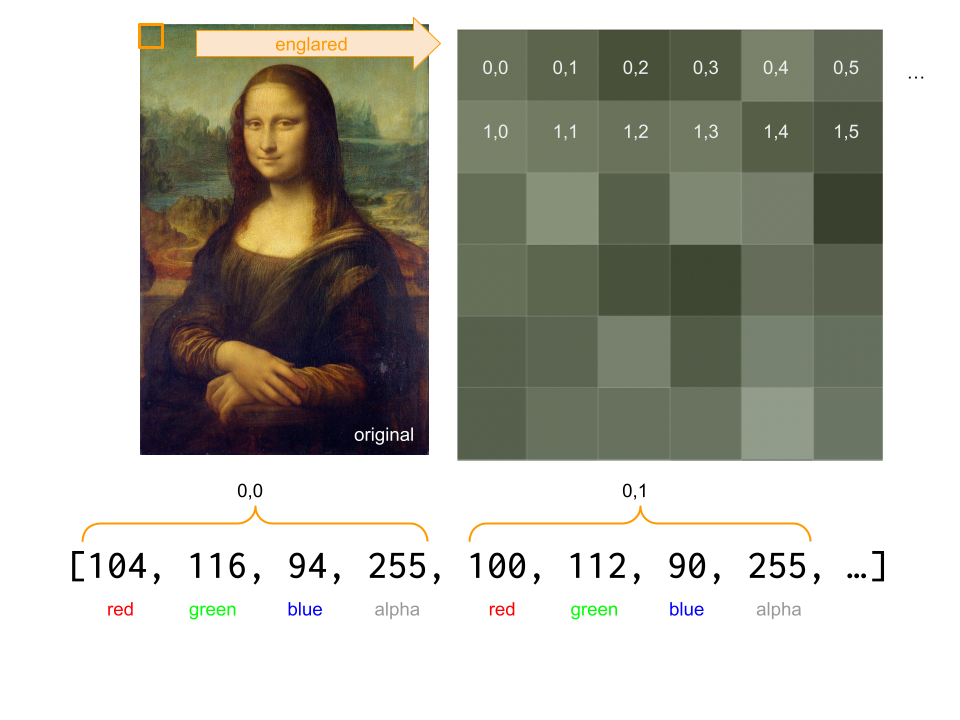
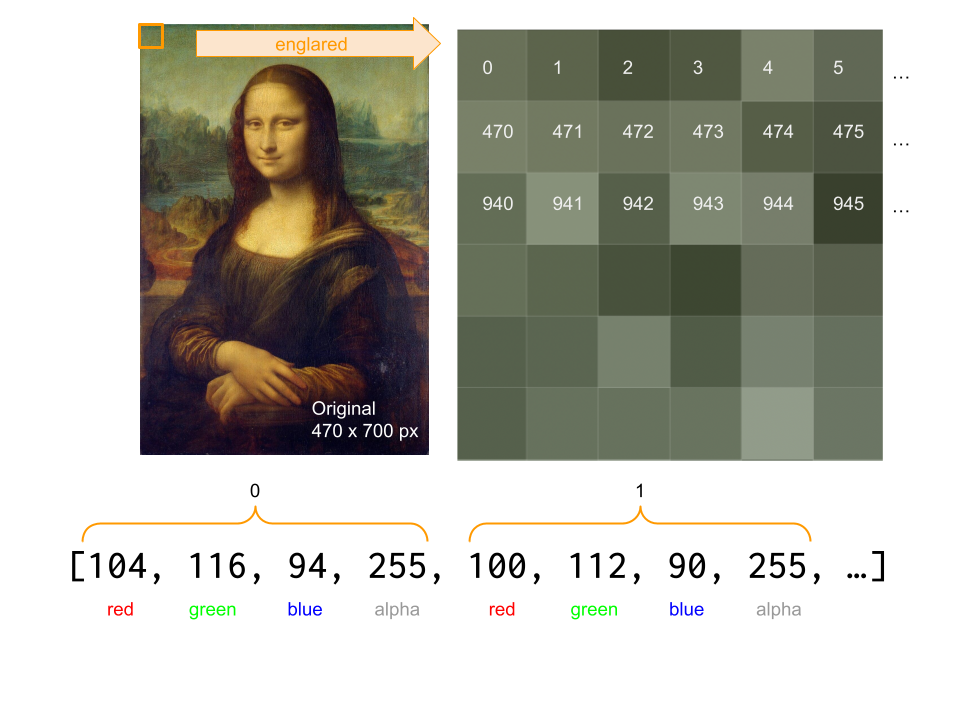
updates

diff --git a/imageman/advanced.md b/imageman/advanced.md
@@ -1,23 +1,24 @@
 # Advanced Image Manipulation
+Once you have an image in p5, you can access any and all pixel data associated with image. You can grab and edit a single pixel, or grab sub sections of an image.
 
 ## Getting Pixel information
 There are different methods to get pixel information. Each has its pros and cons.
 
 ### Pixels
-You can access the pixel data for any image, but gets pretty complicated fast! Here is a code sample.
+You can access the raw pixel data for any image, but this gets pretty complicated fast! Here is a code sample.
 
 ```javascript
 img.loadPixels(); //this loads the the pixel data
-print(img.pixels); //dumps all pixel information to the console, might crash your browser.
+print(img.pixels); //dumps all pixel information to the console, might crash your browser depending on how big the image is.
 ```
 
-This is what would be printed: `[ 104, 116, 94, 255, 100, 112, 90, 255, 91, 103, … ]`
+Here is an example of what could be printed: `[ 104, 116, 94, 255, 100, 112, 90, 255, 91, 103, … ]`
 
-The square brackets show that this is an *array*, fancy talk for a list. All the pixel data for the entire image is stored in the array. This image shows how it related.
+The square brackets show that this is an *array*, fancy talk for a list. All the pixel data for the entire image is stored in the array. Each pixel is represented by 4 values.
 
 ![pixel data for the mona lisa](./pixels.png)
 
-  This can be useful, but we need to do a bunch of math to translate this 1 dimensional array into an 2 dimensional image.
+This can be useful and very *fast*, but we need to do a bunch of math to translate this 1 dimensional array into useful image data.
 
 ### `get()` method
 The `get()` method is easier to work with, but not as speedy. It has multiple forms:

diff --git a/imageman/basics.md b/imageman/basics.md
@@ -129,7 +129,7 @@ We can position the image however we like, for example we could have to follow t
 ```javascript
 image(img, mouseX - img.width / 2, mouseY - img.height/2); //make it centered on the mouse
 ```
-![Grumpy Cat](.imgs/grumpy-draw1.gif)
+![Grumpy Cat](./imgs/grumpy-draw1.gif)
 
 Now whenever we move the mouse the image follows. Try removing the `background()` at the start of draw. Now we can see a history of where the mouse has been.
 
@@ -140,7 +140,7 @@ if(mouseIsPressed == true){ //only paint the image when the mouse is pressed.
   image(img, mouseX - img.width / 2, mouseY - img.height/2);
 }
 ```
-![Grumpy Cat](.imgs/grumpy-draw2.gif)
+![Grumpy Cat](./imgs/grumpy-draw2.gif)
 
 # Up Next 
 See how to manipulate pixel data in the [advanced images guide](./advanced.md)

diff --git a/imageman/images.md b/imageman/images.md
@@ -1,8 +1,7 @@
 # Image Manipulation with p5 
 
 ## Tutorials 
-- [Basics Review](basics.md), getting started with p5.
-- [Images Basics](images.md), loading, displaying, and sizing images with p5.
+- [Images Basics](basics.md), loading, displaying, and sizing images with p5.
 - [Advanced Image Manipulation](advanced.md), manipulating pixel data.
 - [Code Examples](https://github.com/awdriggs/codedImages)
 
